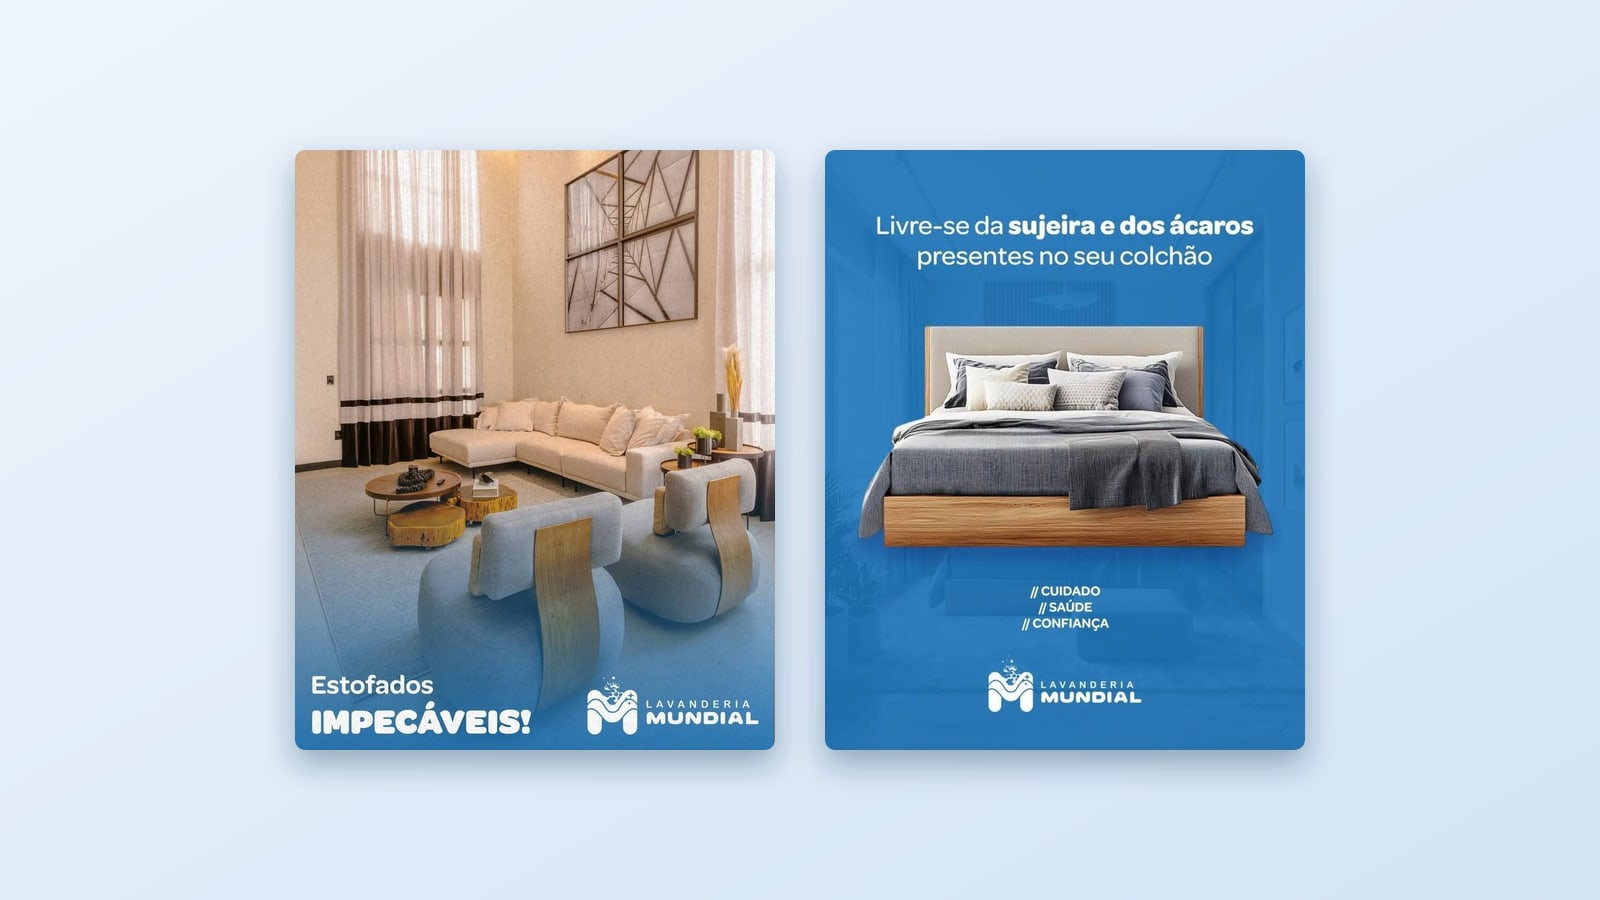
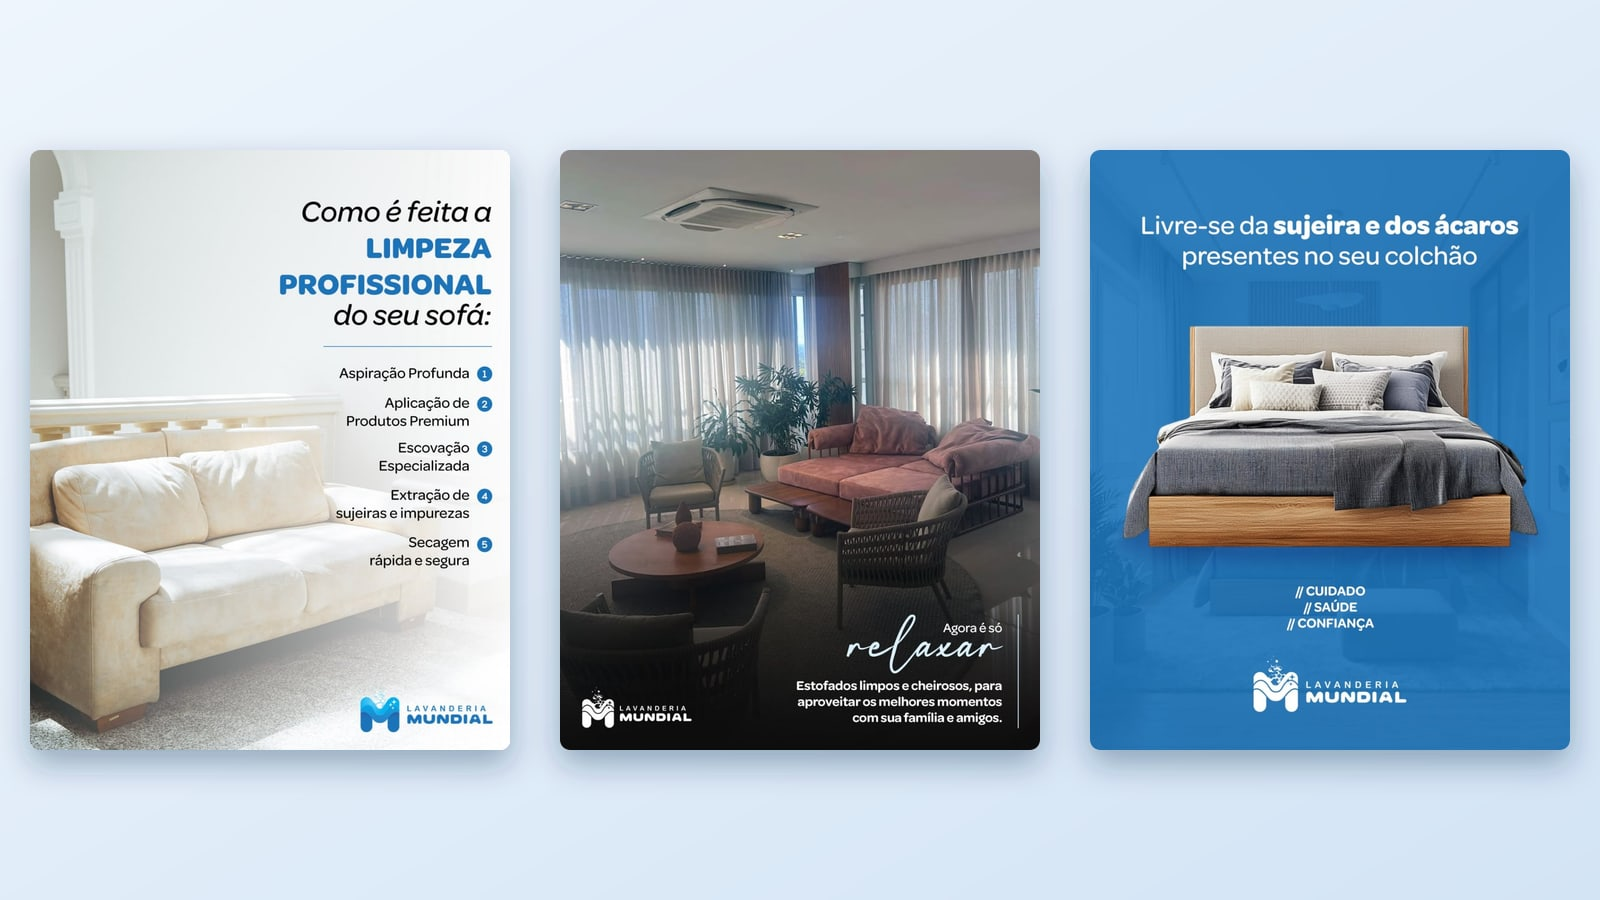
feat: social media galleries (Mundial, Seventies, Paradise) and new Blessed Lavanderia project; story/square formats

diff --git a/lib/projetos.js b/lib/projetos.js
@@ -17,7 +17,7 @@
 //   linkRotulo texto do botão do link (padrão: "Ver projeto no ar"; ex.: "Ver no Instagram")
 //   capa       imagem principal: '/projetos/<slug>/capa.jpg' (arquivo em public/projetos/<slug>/)
 //   relacionados lista de slugs de projetos ligados a este (mesmo cliente/grupo): seção "Projetos relacionados"
-//   (imagem) aspecto: '4/5' para posts de Instagram; retrato: true para folhas A4 verticais
+//   (imagem) aspecto: '4/5' (post de Instagram), '1/1' (quadrado), '9/16' (story); retrato: true para folhas A4 verticais
 //   imagens    galeria: [{ src: '/projetos/<slug>/tela-1.jpg', alt: 'descrição da imagem' }]
 
 export const projetos = [
@@ -340,11 +340,13 @@ export const projetos = [
     resumo:
       'Gestão mensal de Instagram e Facebook com a criação de conteúdo, planejamento estratégico, monitoramento de métricas e campanhas de anúncios.',
     techs: ['Meta Business', 'Photoshop', 'Edits', 'Google Meu Negócio'],
+    capa: '/projetos/redes-sociais-paradise-sup-surf/capa.jpg',
     link: 'https://www.instagram.com/paradisesupsurf',
     linkRotulo: 'Ver no Instagram',
     relacionados: ['paradise-materiais-impressos','paradise-site'],
     descricao: [
       'Gestão mensal de Instagram e Facebook com a criação de conteúdo, planejamento estratégico, monitoramento de métricas e campanhas de anúncios.',
+      'Os posts abaixo são exemplos de artes criadas para o Instagram do cliente, divulgando as experiências de SUP e surf ao nascer e ao pôr do sol.',
     ],
     desafio:
       'Aumentar a visibilidade da empresa nas redes sociais para atrair mais clientes e fechar mais negócios.',
@@ -355,6 +357,44 @@ export const projetos = [
       'Planejamento estratégico',
       'Monitoramento de métricas',
       'Campanhas de anúncios',
+    ],
+    imagens: [
+      { src: '/projetos/redes-sociais-paradise-sup-surf/post-2.jpg', alt: "Post \"Nascer do sol no Arpoador (vagas limitadas)\", da Paradise SUP & Surf", aspecto: '4/5' },
+      { src: '/projetos/redes-sociais-paradise-sup-surf/post-3.jpg', alt: "Post \"Experiência do amanhecer em Copacabana\", da Paradise SUP & Surf", aspecto: '4/5' },
+      { src: '/projetos/redes-sociais-paradise-sup-surf/post-1.jpg', alt: "Post com uma frase sobre o céu e o mar ao pôr do sol, com uma pessoa sobre uma prancha de SUP", aspecto: '4/5' },
+    ],
+  },
+  {
+    slug: 'redes-sociais-blessed-lavanderia',
+    titulo: 'Gestão de Redes — Blessed Lavanderia',
+    categoria: 'Social',
+    cliente: 'Blessed Lavanderia',
+    ano: '2026',
+    cor: '#7A4F8F',
+    resumo:
+      'Criação de conteúdo para as redes sociais da Blessed Lavanderia, que atua na limpeza de tapetes e estofados.',
+    techs: ['Meta Business', 'Photoshop'],
+    link: null,
+    capa: '/projetos/redes-sociais-blessed-lavanderia/capa.jpg',
+    descricao: [
+      'Criação de artes para o Instagram da Blessed Lavanderia, que atua na limpeza de tapetes e estofados, mantendo a identidade visual da marca em todas as peças.',
+      'Os posts abaixo são exemplos: apresentação do processo de limpeza, promoções, dicas sobre cuidados com sofás e colchões e chamadas para agendamento.',
+    ],
+    entregas: [
+      'Criação de artes para as redes sociais',
+      'Identidade visual aplicada em todos os posts',
+    ],
+    imagens: [
+      { src: '/projetos/redes-sociais-blessed-lavanderia/post-01.jpg', alt: "Post \"Seu sofá merece o melhor cuidado\", com chamada para agendamento", aspecto: '4/5' },
+      { src: '/projetos/redes-sociais-blessed-lavanderia/post-02.jpg', alt: "Post \"Nosso processo para manter seu ambiente impecável\", com as etapas do serviço", aspecto: '4/5' },
+      { src: '/projetos/redes-sociais-blessed-lavanderia/post-03.jpg', alt: "Story \"Faça a limpeza de seu estofado e ganhe 40% de desconto na limpeza de seu colchão\"", aspecto: '9/16' },
+      { src: '/projetos/redes-sociais-blessed-lavanderia/post-04.jpg', alt: "Post \"Tranquilidade é o que transmitimos com a nossa limpeza especializada de estofados\"", aspecto: '4/5' },
+      { src: '/projetos/redes-sociais-blessed-lavanderia/post-05.jpg', alt: "Post \"Não é apenas estética, é proteção para você e sua família\"", aspecto: '4/5' },
+      { src: '/projetos/redes-sociais-blessed-lavanderia/post-06.jpg', alt: "Post \"Quer melhorar a qualidade do seu sono? Aprenda como!\"", aspecto: '4/5' },
+      { src: '/projetos/redes-sociais-blessed-lavanderia/post-07.jpg', alt: "Post \"Antes ou depois da mudança? Qual o momento certo para limpar os estofados?\"", aspecto: '4/5' },
+      { src: '/projetos/redes-sociais-blessed-lavanderia/post-08.jpg', alt: "Post \"Trabalhamos removendo sujidades e bactérias dos seus estofados\"", retrato: true },
+      { src: '/projetos/redes-sociais-blessed-lavanderia/post-09.jpg', alt: "Post \"Motivos para higienizar seu sofá agora\"", aspecto: '4/5' },
+      { src: '/projetos/redes-sociais-blessed-lavanderia/post-10.jpg', alt: "Post \"Limpeza profunda que elimina ácaros e bactérias\"", aspecto: '4/5' },
     ],
   },
   {
@@ -381,13 +421,20 @@ export const projetos = [
       'Campanhas de anúncios',
     ],
     imagens: [
-      { src: '/projetos/redes-sociais-lavanderia-mundial/post-2.jpg', alt: 'Post "Estofados impecáveis!" da Lavanderia Mundial, com foto de uma sala e o logotipo', aspecto: '4/5' },
-      { src: '/projetos/redes-sociais-lavanderia-mundial/post-3.jpg', alt: 'Post "Livre-se da sujeira e dos ácaros presentes no seu colchão", da Lavanderia Mundial', aspecto: '4/5' },
-      { src: '/projetos/redes-sociais-lavanderia-mundial/post-1.jpg', alt: 'Post "Como é feita a limpeza profissional do seu sofá", com as 5 etapas do processo', aspecto: '4/5' },
+      { src: '/projetos/redes-sociais-lavanderia-mundial/post-2.jpg', alt: "Post \"Estofados impecáveis!\" da Lavanderia Mundial, com foto de uma sala e o logotipo", aspecto: '4/5' },
+      { src: '/projetos/redes-sociais-lavanderia-mundial/post-3.jpg', alt: "Post \"Livre-se da sujeira e dos ácaros presentes no seu colchão\", da Lavanderia Mundial", aspecto: '4/5' },
+      { src: '/projetos/redes-sociais-lavanderia-mundial/post-1.jpg', alt: "Post \"Como é feita a limpeza profissional do seu sofá\", com as 5 etapas do processo", aspecto: '4/5' },
+      { src: '/projetos/redes-sociais-lavanderia-mundial/post-4.jpg', alt: "Story \"Faça a limpeza de seu estofado e ganhe 40% de desconto na higienização de seu colchão\"", aspecto: '9/16' },
+      { src: '/projetos/redes-sociais-lavanderia-mundial/post-5.jpg', alt: "Post \"Agora é só relaxar\", com estofados limpos e cheirosos", aspecto: '4/5' },
+      { src: '/projetos/redes-sociais-lavanderia-mundial/post-6.jpg', alt: "Post \"Vai receber suas visitas com as cadeiras nesse estado? Nem pensar!\"", aspecto: '4/5' },
+      { src: '/projetos/redes-sociais-lavanderia-mundial/post-7.jpg', alt: "Post \"Agenda aberta: agende a limpeza de seus estofados conosco\"", aspecto: '4/5' },
+      { src: '/projetos/redes-sociais-lavanderia-mundial/post-8.jpg', alt: "Post de um ambiente com o convite \"Confira na legenda\"", aspecto: '4/5' },
+      { src: '/projetos/redes-sociais-lavanderia-mundial/post-9.jpg', alt: "Post \"Erros que podem acabar com a beleza do seu estofado\"", aspecto: '4/5' },
+      { src: '/projetos/redes-sociais-lavanderia-mundial/post-10.jpg', alt: "Post \"Seu carpete limpo, com qualidade Mundial\", com um profissional limpando o carpete de um auditório", aspecto: '4/5' },
     ],
     descricao: [
       'Gestão mensal de Instagram e Facebook com a criação de conteúdo, planejamento estratégico, monitoramento de métricas e campanhas de anúncios.',
-      'Os posts abaixo são exemplos de artes criadas para o Instagram do cliente: o passo a passo da limpeza profissional de sofá, estofados e a limpeza de colchão.',
+      'Os posts abaixo são exemplos de artes criadas para o Instagram do cliente: passo a passo da limpeza, promoções, dicas e ofertas para sofás, estofados, cadeiras, colchões e carpetes.',
     ],
   },
   {
@@ -400,6 +447,7 @@ export const projetos = [
     resumo:
       'Gestão mensal de Instagram e Facebook com a criação de conteúdo, planejamento estratégico, monitoramento de métricas e campanhas de anúncios.',
     techs: ['Meta Business', 'Photoshop', 'Edits', 'Google Meu Negócio'],
+    capa: '/projetos/redes-sociais-the-seventies-burgers/capa.jpg',
     link: 'https://www.instagram.com/theseventiesburgers',
     linkRotulo: 'Ver no Instagram',
     desafio:
@@ -412,9 +460,14 @@ export const projetos = [
       'Monitoramento de métricas',
       'Campanhas de anúncios',
     ],
+    imagens: [
+      { src: '/projetos/redes-sociais-the-seventies-burgers/post-1.jpg', alt: "Post \"Hoje é Dia Mundial do Hambúrguer!\", da The Seventies Burgers", aspecto: '4/5' },
+      { src: '/projetos/redes-sociais-the-seventies-burgers/post-2.jpg', alt: "Post \"Seu lanche direto em casa\", da The Seventies Burgers, com o telefone para pedidos", aspecto: '1/1' },
+    ],
     relacionados: ['site-hamburgueria-the-seventies'],
     descricao: [
       'Gestão mensal de Instagram e Facebook com a criação de conteúdo, planejamento estratégico, monitoramento de métricas e campanhas de anúncios.',
+      'Os posts abaixo são exemplos de artes criadas para o Instagram do cliente, com divulgação do cardápio, datas especiais e pedidos por telefone.',
     ],
   },
 ];

diff --git a/app/projetos/[slug]/Galeria.jsx b/app/projetos/[slug]/Galeria.jsx
@@ -5,6 +5,8 @@ import Image from 'next/image';
 
 // Galeria de imagens do projeto: miniaturas que ampliam em uma janela (dialog nativo).
 // Esc fecha, setas do teclado navegam, clicar fora fecha.
+const ASPECTOS = { '4/5': 'aspect-[4/5]', '1/1': 'aspect-square', '9/16': 'aspect-[9/16]' };
+
 export default function Galeria({ imagens }) {
   const dialogRef = useRef(null);
   const [atual, setAtual] = useState(0);
@@ -42,7 +44,7 @@ export default function Galeria({ imagens }) {
             type="button"
             onClick={() => abrir(i)}
             aria-label={`Ampliar imagem: ${m.alt}`}
-            className={`group relative ${m.aspecto === '4/5' ? 'aspect-[4/5]' : m.retrato ? 'aspect-[3/4]' : 'aspect-[4/3]'} rounded-xl overflow-hidden border border-gray-200 bg-white cursor-zoom-in focus:outline-none focus-visible:ring-2 focus-visible:ring-[#6B2D8B]`}
+            className={`group relative ${ASPECTOS[m.aspecto] ?? (m.retrato ? 'aspect-[3/4]' : 'aspect-[4/3]')} rounded-xl overflow-hidden border border-gray-200 bg-white cursor-zoom-in focus:outline-none focus-visible:ring-2 focus-visible:ring-[#6B2D8B]`}
           >
             <Image
               src={m.src}
